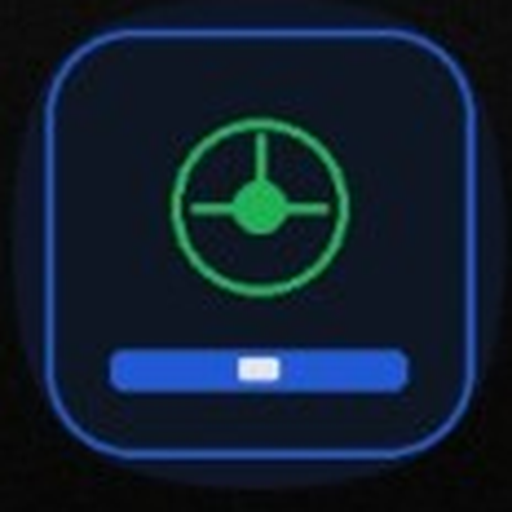
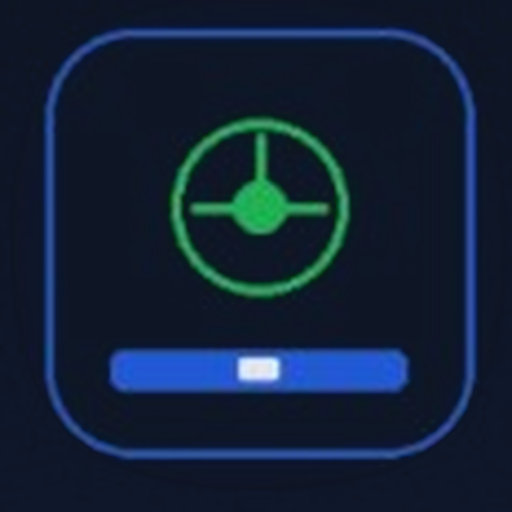
Add files via upload

Changed region(s): [[0.0, 0.0, 1.0, 1.0], [0.75, 0.0, 1.0, 0.4062], [0.9688, 0.4688, 1.0, 0.5]]

diff --git a/app30_app.html b/app30_app.html
@@ -43,7 +43,7 @@ try{
 
 <link href="https://fonts.googleapis.com/css2?family=Inter:wght@400;600;700;800&display=swap" rel="stylesheet">
 
-<title>MetaDriver vBeta1.45</title>
+<title>MetaDriver vBeta1.47</title>
 <style id="md-hydration-lock">
 body.preload > *:not(#mdBootOverlay){visibility:hidden!important;}
 #mdBootOverlay{position:fixed;inset:0;display:flex;align-items:center;justify-content:center;background:#0f172a;color:#fff;z-index:2147483647;font-family:Inter,system-ui,sans-serif;font-weight:800;letter-spacing:.2px;}
@@ -3902,7 +3902,7 @@ body[data-tema$="claro"] .historico-report-line{border-bottom-color:rgba(0,0,0,.
   <div class="menu-item"><button class="secondary" onclick="abrirSaldoAtualButtonMenu(); closeMenu();">Botão de saldo atual</button></div>
   <div class="menu-item"><button class="secondary" onclick="abrirTemas(); closeMenu();">Temas</button></div>
   <div class="menu-item menu-user-row"><span class="menu-user-name" id="menuUserName">Usuário</span><button class="danger" onclick="forceLogout(); return false;">Sair</button></div>
-  <div class="menu-note" style="text-align:center;">vBeta1.45</div>
+  <div class="menu-note" style="text-align:center;">vBeta1.47</div>
 </div>
 
 
@@ -5400,7 +5400,7 @@ function mdBuildDiagnosticsObject(){
     const durableObj = mdSafeJsonParse(durableRaw);
     const diag = {
       generated_at: mdNowIso(),
-      app_version: 'MetaDriver vBeta1.45',
+      app_version: 'MetaDriver vBeta1.47',
       cloud_table: CLOUD_TABLE,
       device_id: mdEnsureDeviceId(),
       visibility_state: document.visibilityState,
@@ -7407,7 +7407,7 @@ function mdCommitLancamentoMutation(reason){
   try{ atualizar(); }catch(e){}
   try{ if(typeof refreshQuickBalanceFabMiniDisplay === "function") refreshQuickBalanceFabMiniDisplay(); }catch(e){}
   try{ if(typeof updateQuickBalanceFabUI === "function") updateQuickBalanceFabUI(); }catch(e){}
-  try{ if(typeof toast === "function" && reason) console.info("MetaDriver vBeta1.45 mutation:", reason); }catch(e){}
+  try{ if(typeof toast === "function" && reason) console.info("MetaDriver vBeta1.47 mutation:", reason); }catch(e){}
 }
 
 
@@ -9232,7 +9232,7 @@ function exportarRelatorioPDF(){
       <script>
         setTimeout(()=>window.print(), 250);
       <\/script>
-    <div class="version-debug-badge" id="versionDebugBadge">MetaDriver vBeta1.45 · app</div>
+    <div class="version-debug-badge" id="versionDebugBadge">MetaDriver vBeta1.47 · app</div>
 
 
 <script>

diff --git a/admin.html b/admin.html
@@ -6,7 +6,7 @@
 <meta http-equiv="Pragma" content="no-cache">
 <meta http-equiv="Expires" content="0">
 <meta name="viewport" content="width=device-width, initial-scale=1.0">
-<title>MetaDriver vBeta1.45 · admin</title>
+<title>MetaDriver vBeta1.47 · admin</title>
 <style>
 :root {
   color-scheme: dark;
@@ -737,6 +737,6 @@ initAdmin();
 })();
 </script>
 
-<div class="version-debug-badge" id="versionDebugBadge">MetaDriver vBeta1.45 · admin</div>
+<div class="version-debug-badge" id="versionDebugBadge">MetaDriver vBeta1.47 · admin</div>
 </body>
 </html>

diff --git a/index.html b/index.html
@@ -3,7 +3,7 @@
 <head>
 <meta charset="UTF-8">
 <meta name="viewport" content="width=device-width,initial-scale=1.0">
-<title>MetaDriver vBeta1.45</title>
+<title>MetaDriver vBeta1.47</title>
 <link rel="manifest" href="manifest.json">
 <meta name="theme-color" content="#0f172a">
 <meta http-equiv="Cache-Control" content="no-cache, no-store, must-revalidate">
@@ -73,7 +73,7 @@ body.boot-ready #bootWrap{visibility:visible}
   </div>
 </div>
 
-<div class="version-debug-badge">MetaDriver vBeta1.45 · boot</div>
+<div class="version-debug-badge">MetaDriver vBeta1.47 · boot</div>
 
 <script>
 (function(){

diff --git a/login.html b/login.html
@@ -6,7 +6,7 @@
 <meta http-equiv="Pragma" content="no-cache">
 <meta http-equiv="Expires" content="0">
 <meta name="viewport" content="width=device-width,initial-scale=1.0">
-<title>MetaDriver vBeta1.45</title>
+<title>MetaDriver vBeta1.47</title>
 <style>
 :root {
   color-scheme: dark;
@@ -531,6 +531,6 @@ function cloudRestoreToLocal(payload, userId) {
   }
 })();
 </script>
-<div class="version-debug-badge" id="versionDebugBadge">MetaDriver vBeta1.45 · login</div>
+<div class="version-debug-badge" id="versionDebugBadge">MetaDriver vBeta1.47 · login</div>
 </body>
 </html>

diff --git a/painel.html b/painel.html
@@ -6,7 +6,7 @@
 <meta http-equiv="Pragma" content="no-cache">
 <meta http-equiv="Expires" content="0">
 <meta name="viewport" content="width=device-width,initial-scale=1.0">
-<title>MetaDriver vBeta1.45 · painel</title>
+<title>MetaDriver vBeta1.47 · painel</title>
 <style>
 :root { color-scheme: dark; }
 * { box-sizing: border-box; }
@@ -154,6 +154,6 @@ button.secondary { background:rgba(255,255,255,.06); color:#fff; border:1px soli
   loadPanel();
 })();
 </script>
-<div class="version-debug-badge" id="versionDebugBadge">MetaDriver vBeta1.45 · painel</div>
+<div class="version-debug-badge" id="versionDebugBadge">MetaDriver vBeta1.47 · painel</div>
 </body>
 </html>

diff --git a/reset.html b/reset.html
@@ -93,7 +93,7 @@ button {
 </style>
 </head>
 <body>
-<div id="badge">MetaDriver vBeta1.45 · reset</div>
+<div id="badge">MetaDriver vBeta1.47 · reset</div>
 
 <div class="card">
   <h1>MetaDriver</h1>

diff --git a/sw.js b/sw.js
@@ -1,4 +1,4 @@
-const METADRIVER_CACHE_VERSION = "metadriver-cache-vBeta1-45";
+const METADRIVER_CACHE_VERSION = "metadriver-cache-vBeta1-47";
 self.addEventListener("install", (event) => { self.skipWaiting(); });
 self.addEventListener("activate", (event) => {
   event.waitUntil((async()=>{